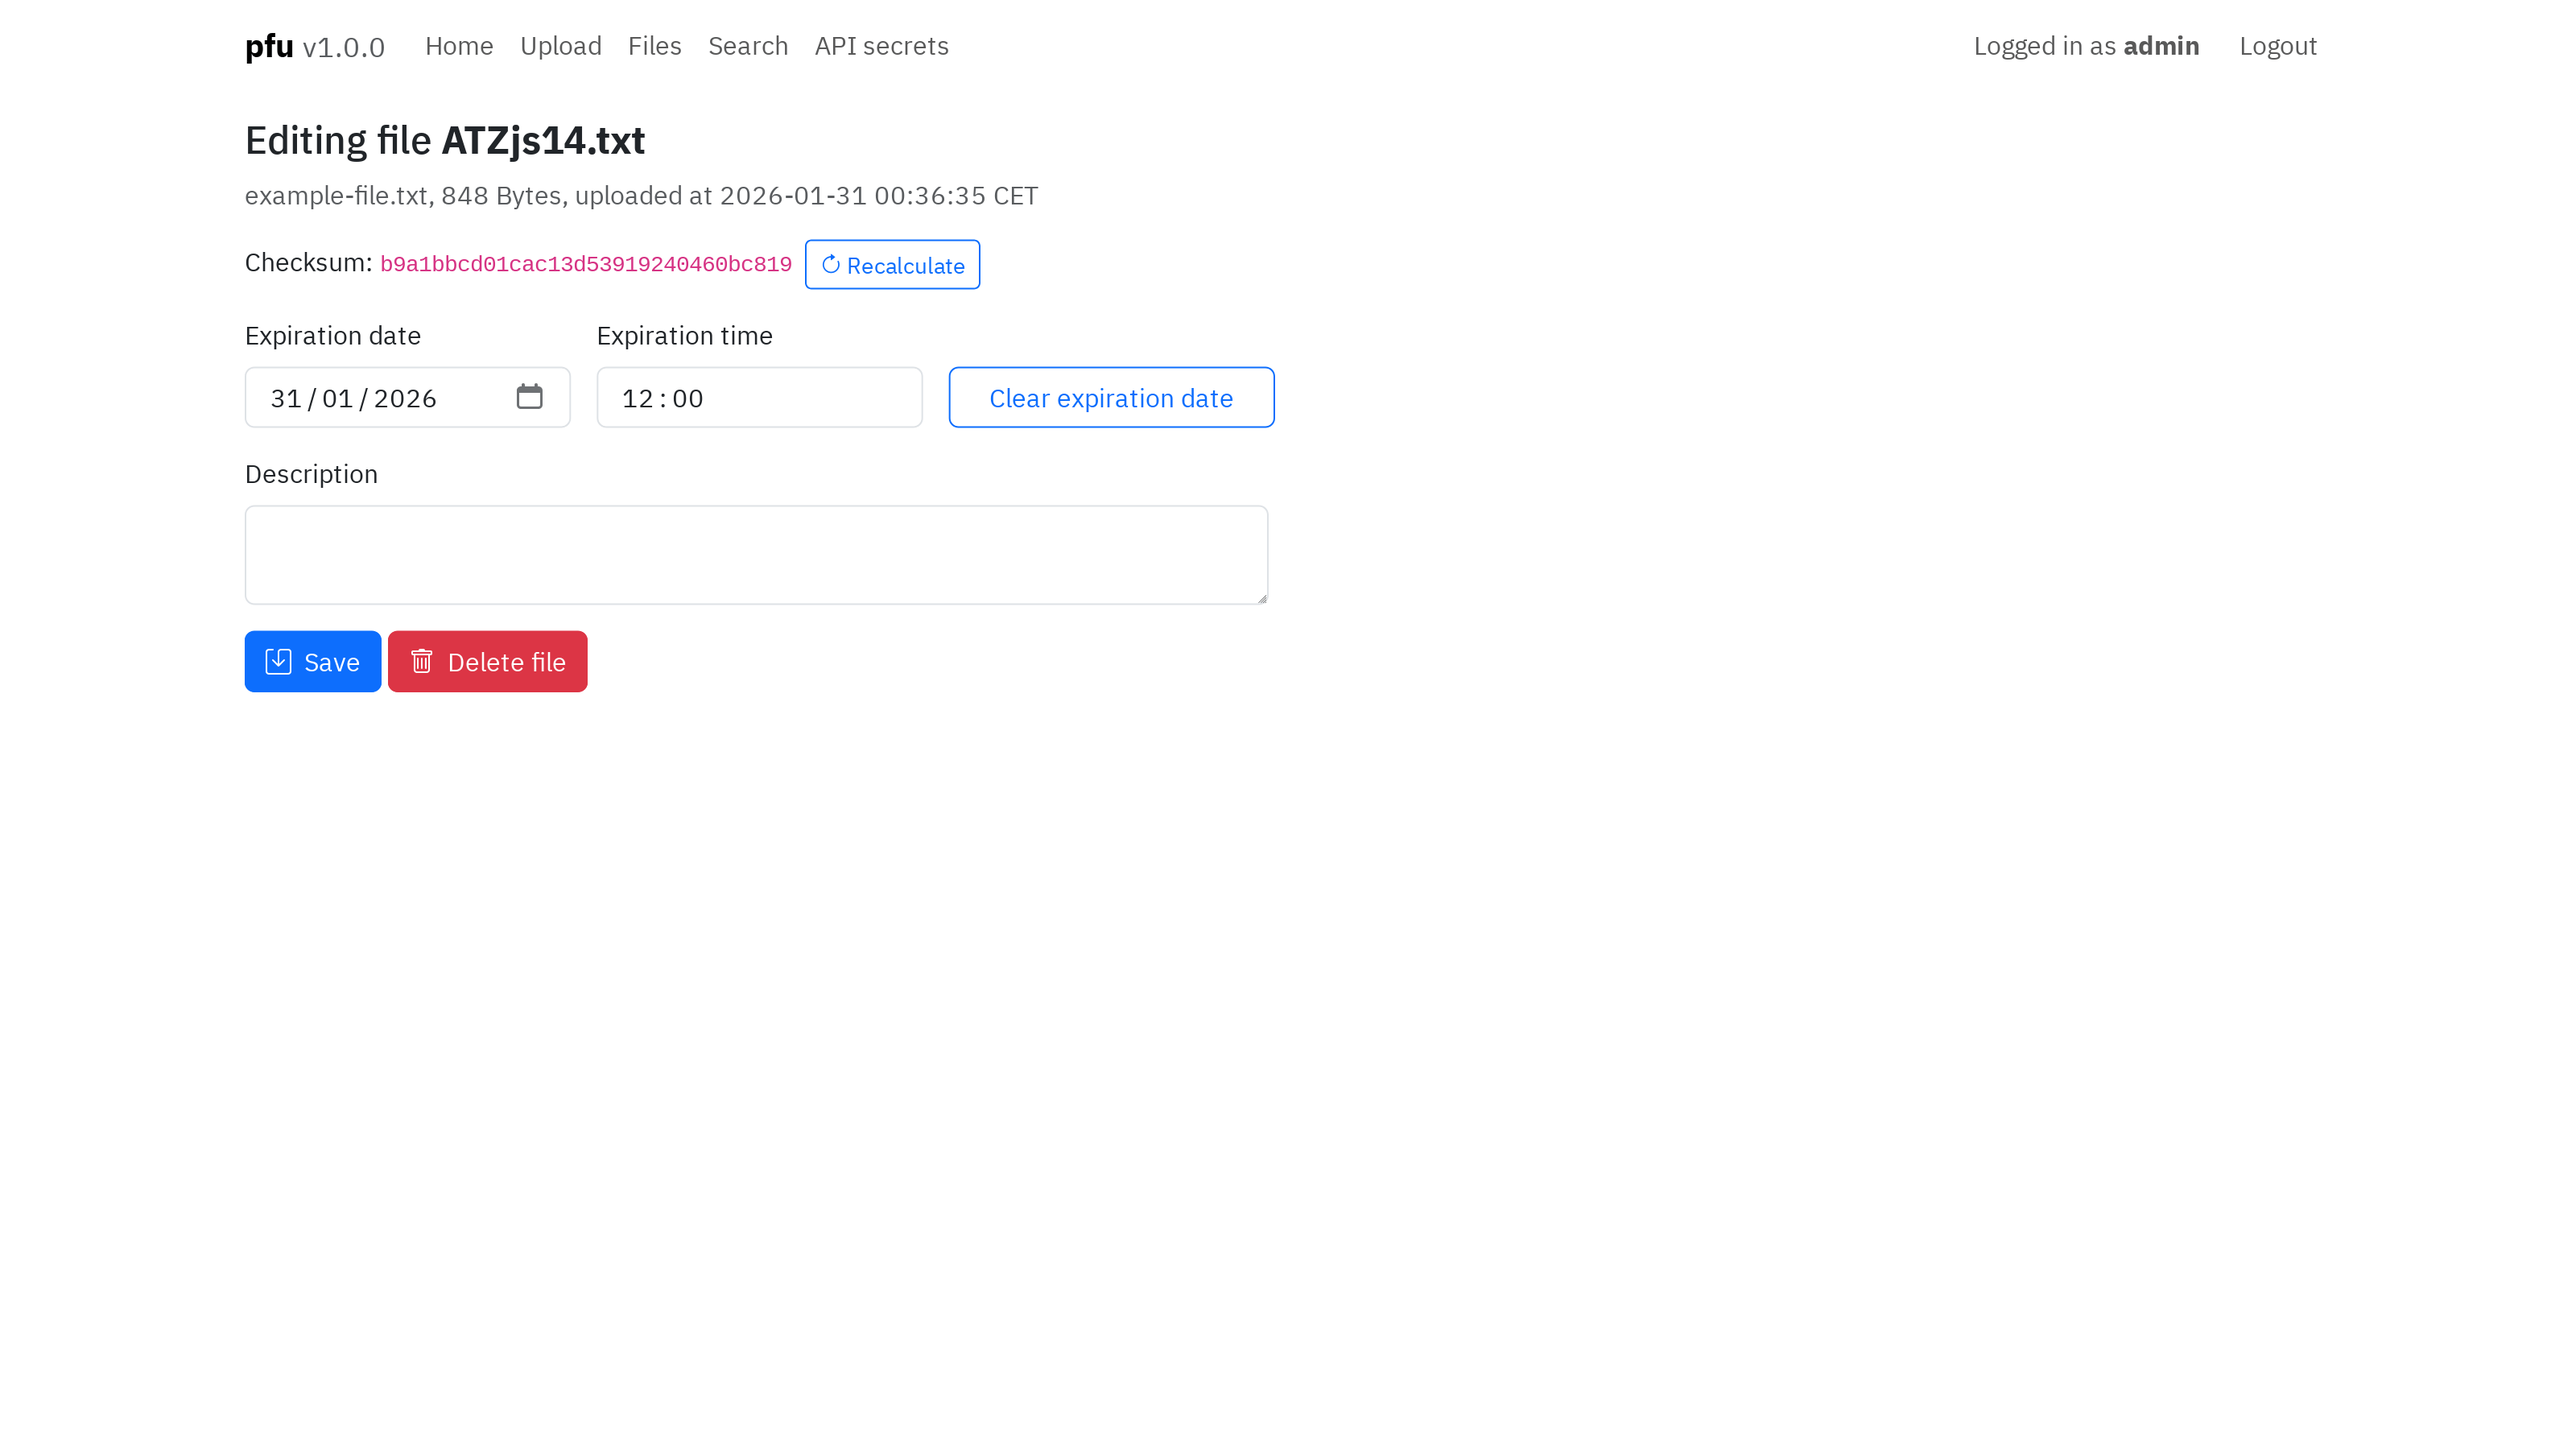
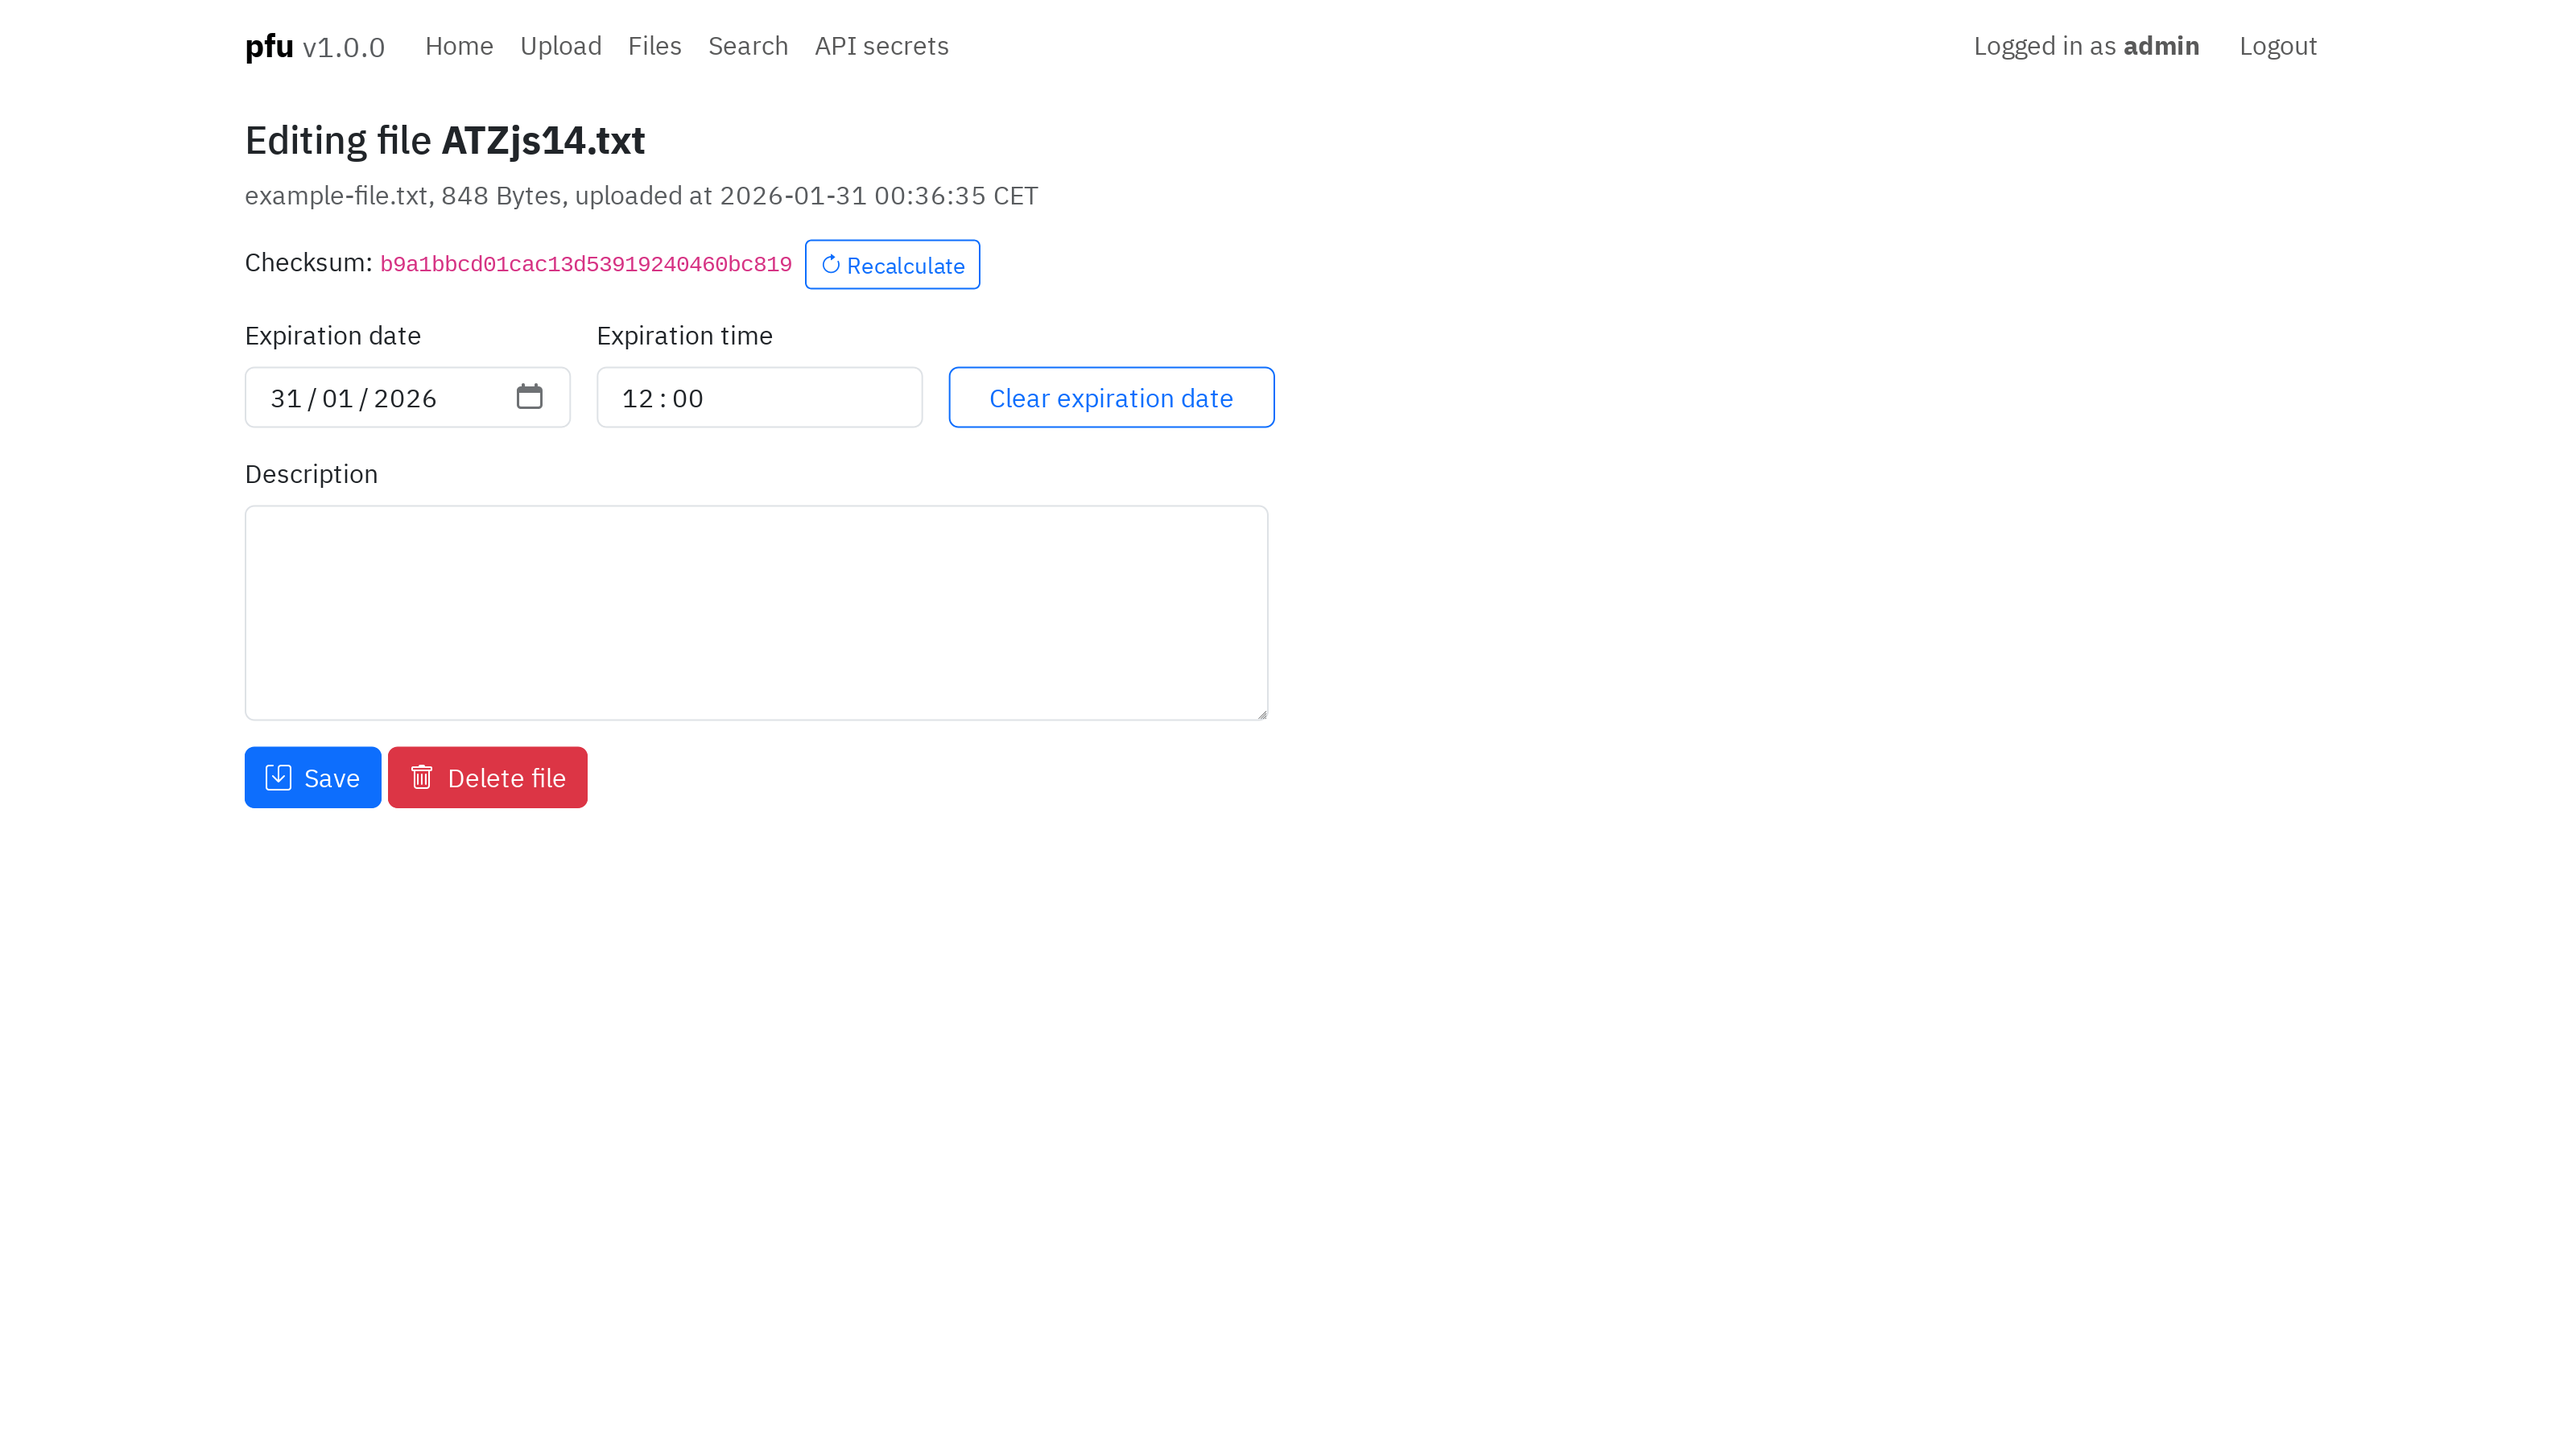
Fix size of description field in edit file view

Changed region(s): [[0.0938, 0.4356, 0.25, 0.56]]

diff --git a/pfu/templates/edit.html b/pfu/templates/edit.html
@@ -22,7 +22,7 @@
         <div class="row mb-3">
             <div class="col-md-6">
                 <label for="description" class="form-label">Description</label>
-                <textarea class="form-control" id="description" name="description">{{ file.description }}</textarea>
+                <textarea class="form-control" rows="5" id="description" name="description">{{ file.description }}</textarea>
             </div>
         </div>
     </div>
